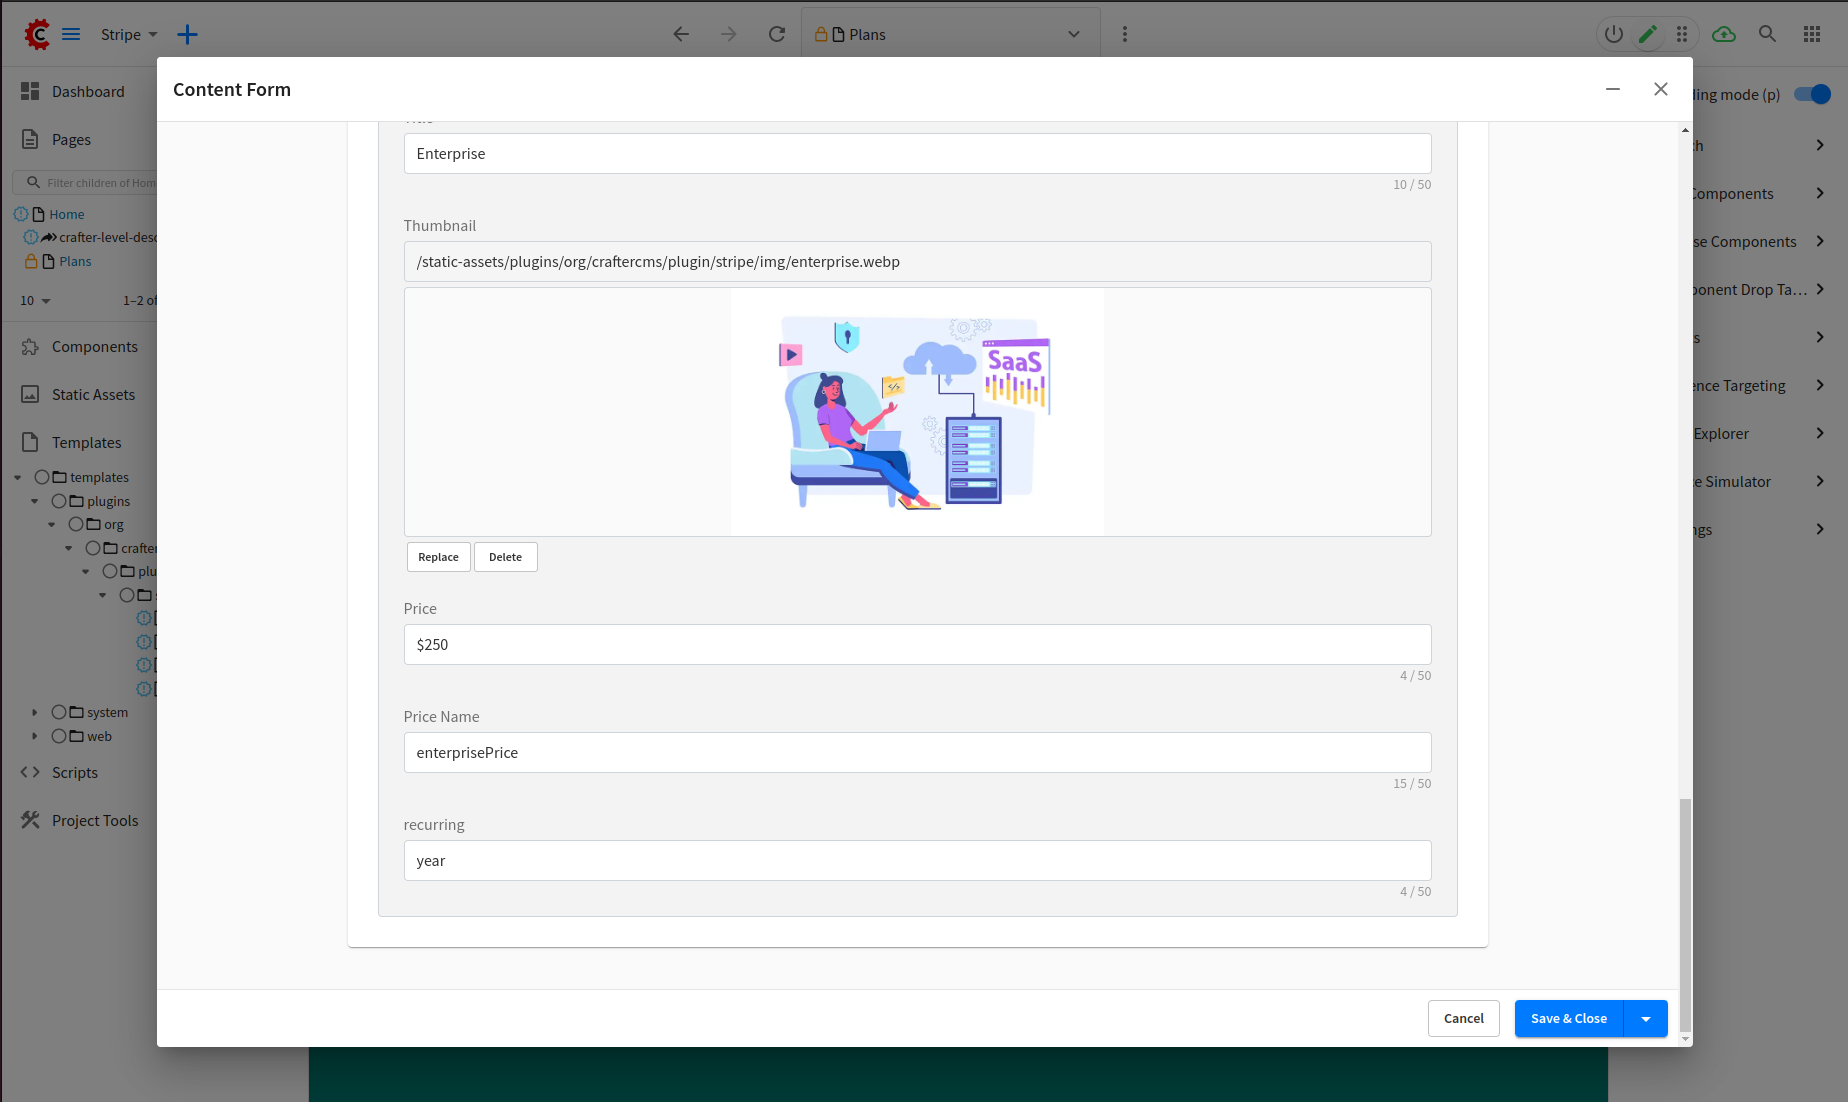
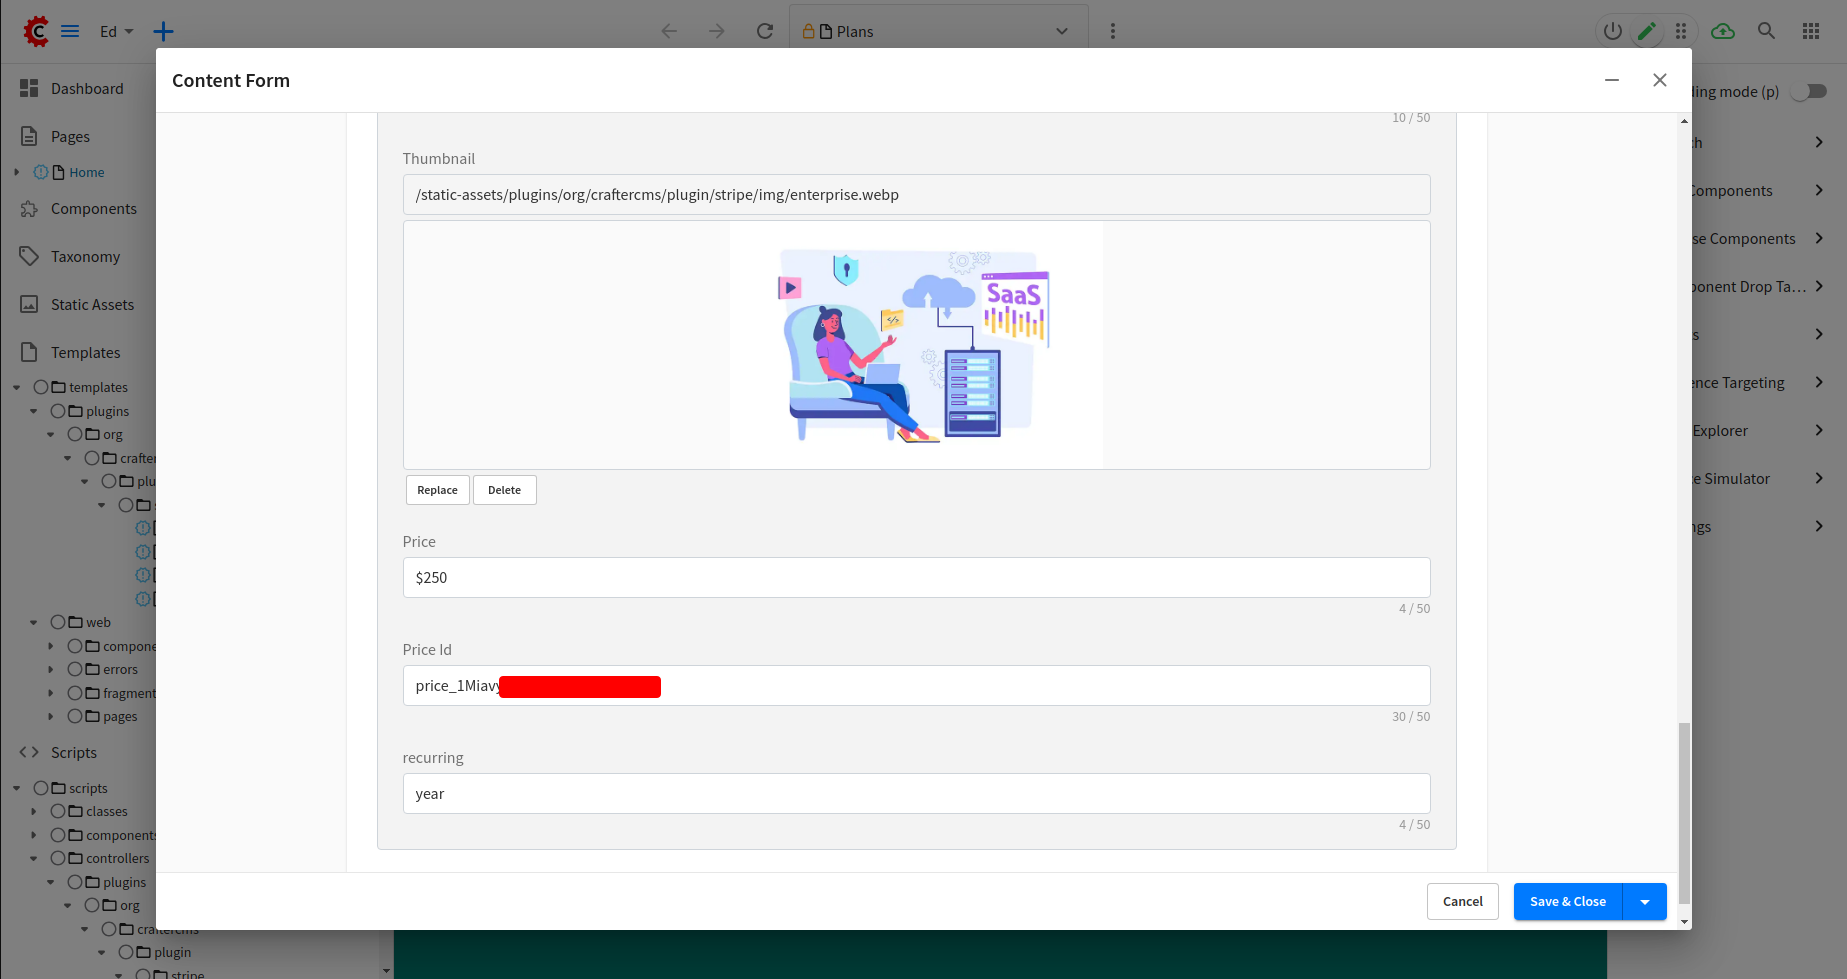
Move configuration from site config to plugin configuration

diff --git a/README.md b/README.md
@@ -8,30 +8,49 @@ A sample CrafterCMS Project uses this plugin: https://github.com/phuongnq/crafte
 
 1. Install the plugin via Studio's Plugin Management UI under `Site Tools` > `Plugin Management`
 
-   OR You can also install this plugin by cloning this repository and using the Studio API.
+    You will need the following information:
 
-    1a. Create a Studio JWT Token.
+    * publishableKey: Stripe [publishable key](https://stripe.com/docs/keys#obtain-api-keys). Example: `${enc:CCE-V1#bUhsL6BI...}`
 
-    1b. Execute the following CURL command a terminal
+    * secretKey: Stripe [secret key](https://stripe.com/docs/keys#obtain-api-keys). Example: `${enc:CCE-V1#z48hAvk...}`
 
-    ```bash
-    curl --location --request POST 'http://SERVER_AND_PORT/studio/api/2/marketplace/copy' \
-    --header 'Authorization: Bearer THE_JWT_TOKEN_FOR_STUDIO' \
-    --header 'Content-Type: application/json' \
-    --data-raw '{
-      "siteId": "YOUR-PROJECT-ID",
-      "path": "THE_ABSOLUTEL_FILE_SYSTEM_PATH_TO_THIS_REPO",
-      "parameters": { }
-    }
-    ```
+    * callbackDomain: Callback domain of your application. Example: `http://localhost:8080`
+
+    OR You can also install this plugin by cloning this repository and using the Studio API.
+
+      1. Create a Studio JWT Token.
+
+      2. Execute the following CURL command a terminal
+
+      ```bash
+      curl --location --request POST 'http://SERVER_AND_PORT/studio/api/2/marketplace/copy' \
+      --header 'Authorization: Bearer THE_JWT_TOKEN_FOR_STUDIO' \
+      --header 'Content-Type: application/json' \
+      --data-raw '{
+        "siteId": "YOUR-PROJECT-ID",
+        "path": "THE_ABSOLUTEL_FILE_SYSTEM_PATH_TO_THIS_REPO",
+        "parameters": { }
+      }
+      ```
 
     OR You can aslo install this plugin by cloning this repository and using [Crafter CLI Commands](https://docs.craftercms.org/en/4.0/new-ia/reference/devcontentops-toolkit/copy-plugin.html)
 
-Values starting with `${enc:...}` are encrypted text using [CrafterCMS Encryption Tool](https://docs.craftercms.org/en/4.0/system-administrators/activities/authoring/main-menu-encryption-tool.html#encryption-tool)
+     ```bash
+    ./crafter-cli copy-plugin -e local -s PROJECT_ID --path /PLUGIN_PATH/stripe-plugin \
+      --param publishableKey='${enc:CCE-V1#bUhsL6BI...}' \
+      --param secretKey='${enc:CCE-V1#z48hAvk...}' \
+      --param callbackDomain='http://localhost:8080'
+    ```
+
+*Note: Values starting with `${enc:...}` are encrypted text using [CrafterCMS Encryption Tool](https://docs.craftercms.org/en/4.0/system-administrators/activities/authoring/main-menu-encryption-tool.html#encryption-tool)*
 
 # Using Checkout for subscriptions
 
 **1. Create a new Stripe Prices Page**
+
+* Page URL: `/plans`
+* Page Name: `Plans`
+* Heading: `Choose a CrafterCMS plan`
 
 ![Stripe Page](/stripe_prices_page.png)
 
@@ -41,20 +60,20 @@ Enter your prices plans. For example, by default the plugin has 3 plans: `basicP
     * Title: Starter
     * Thumbnail: /static-assets/plugins/org/craftercms/plugin/stripe/img/starter.png
     * Price: $12
-    * Price Name: basicPrice (**Note: Price name is fixed to retrieve from server API `delivery/scripts/rest/plugins/org/craftercms/plugin/stripe/config.get.groovy`)
-    * recurring: month
+    * Price Id: Price Id from step 2. Example: `price_1Mi...`
+    * Recurring: month
 * proPrice:
     * Title: Professional
     * Thumbnail: /static-assets/plugins/org/craftercms/plugin/stripe/img/professional.png
     * Price: $18
-    * Price Name: proPrice (**Note: Price name is fixed to retrieve from server API `delivery/scripts/rest/plugins/org/craftercms/plugin/stripe/config.get.groovy`)
-    * recurring: month
+    * Price Id: Price Id from step 2. Example: `price_1Mi...`
+    * Recurring: month
 * enterprisePrice:
     * Title: Enterprise
     * Thumbnail: /static-assets/plugins/org/craftercms/plugin/stripe/img/enterprise.webp
     * Price: $250
-    * Price Name: enterprisePrice (**Note: Price name is fixed to retrieve from server API `delivery/scripts/rest/plugins/org/craftercms/plugin/stripe/config.get.groovy`)
-    * recurring: year
+    * Price Id: Price Id from step 2. Example: `price_1Mi...`
+    * Recurring: year
 
 ![Stripe Page Input](/stripe_prices_page_input.png)
 
@@ -143,35 +162,6 @@ Create price for Enterprise product, substituting `ID_OF_ENTERPRISE_PRODUCT` wit
 **Using the Dashboard**
 
 You can create Products and Prices [in the dashboard](https://dashboard.stripe.com/products). Create three recurring Prices to run this sample.
-
-**Update your site-config.xml**
-
-From Studio UI, open *Project Tools* > *Configuration* > *Engine Project Configuration*, Add your Stripe credentials and account information to `site-config.xml`:
-
-```xml
-<site>
-    <version>4.0.1</version>
-    <stripe>
-      <publishableKey>${enc:CCE-V1#bUhsL6BI...}</publishableKey>
-      <secretKey>${enc:CCE-V1#z48hAvk...}</secretKey>
-      <webhookSecret>${enc:CCE-V1#sO73Bk+b...}</webhookSecret>
-      <basicPriceId>price_1Mi...</basicPriceId>
-      <proPriceId>price_1Mi...</proPriceId>
-      <enterprisePriceId>price_1Mi...</enterprisePriceId>
-      <callbackDomain>http://localhost:8080</callbackDomain>
-    </stripe>
-</site>
-```
-
-where:
-
-* publishableKey: Stripe [publishable key](https://stripe.com/docs/keys#obtain-api-keys)
-* secretKey: Stripe [secret key](https://stripe.com/docs/keys#obtain-api-keys)
-* webhookSecret (optional): Webhook Secret
-* basicPriceId: basicPrice ID
-* proPriceId: proPrice ID
-* enterprisePriceId: enterprisePrice ID
-* callbackDomain: Callback domain of your application
 
 **3. Open your plans page and try subscribing a plan**
 
